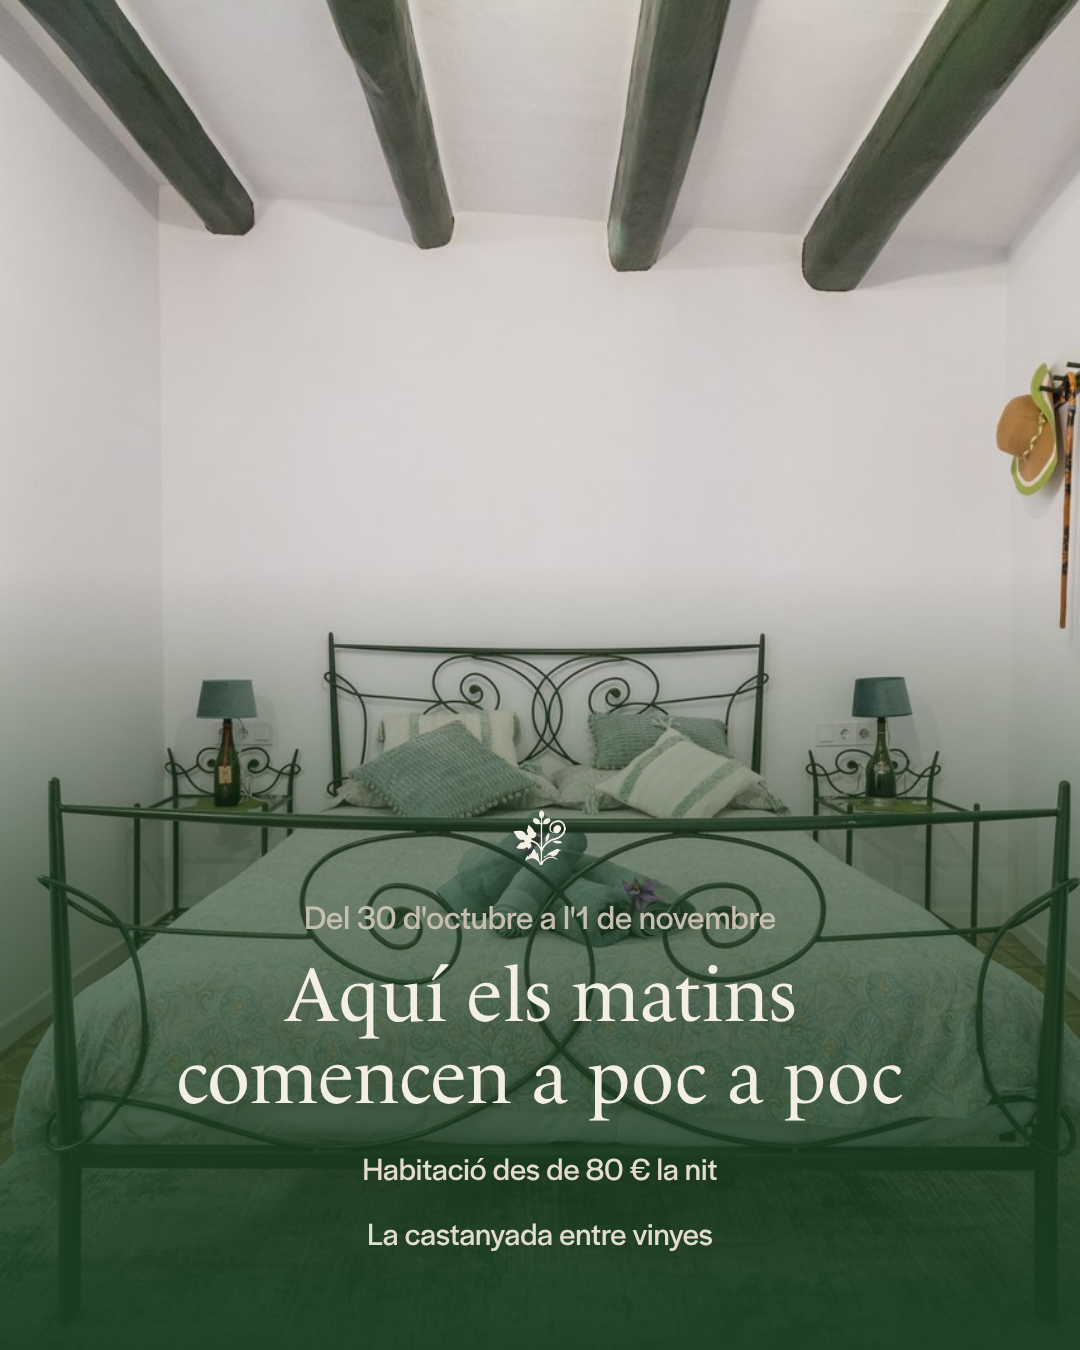
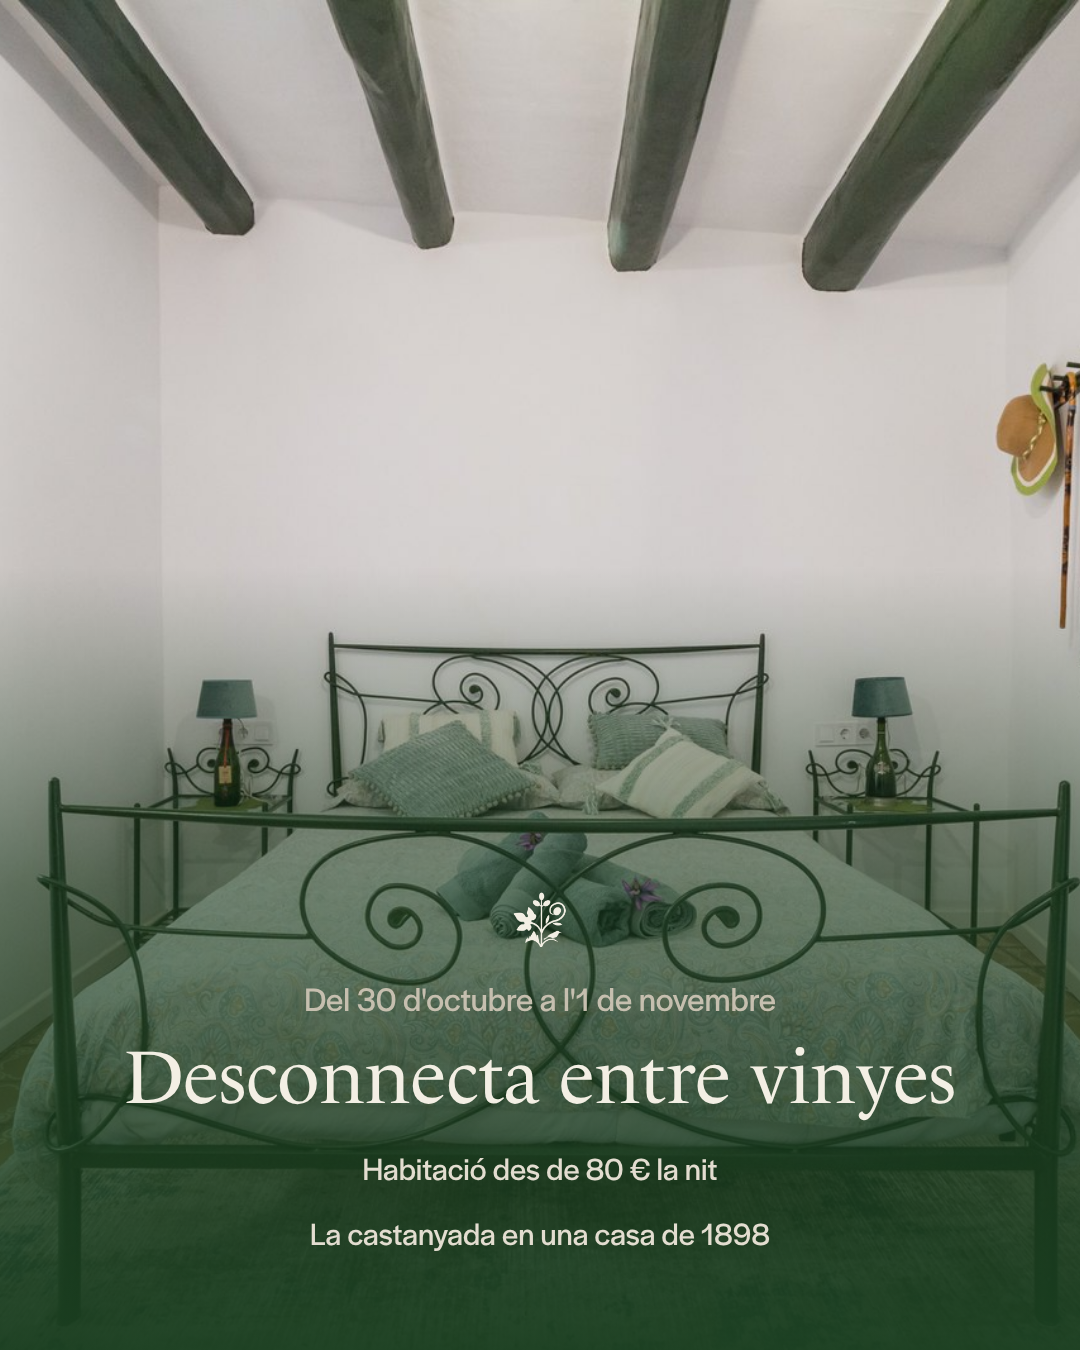
Ads: castanyada room image headline «Desconecta entre viñedos»
Claude-Session: https://claude.ai/code/session_01Lmu1CZcVCAKZt8uGzZEBGx

Changed region(s): [[0.1222, 0.5911, 0.8861, 0.84], [0.275, 0.9022, 0.7333, 0.9333]]

diff --git a/ads/src/html/castanyada-habitacion-story-es.html b/ads/src/html/castanyada-habitacion-story-es.html
@@ -11,4 +11,4 @@ body { background: #1a3f20; }
 <img src="file:///home/user/casavella/img/logo-light.png" alt="La Casa Vella" style="position:absolute;top:262px;left:50%;width:170px;margin-left:-85px">
 <img class="photo" src="file:///home/user/casavella/img/hab-llit.jpg" style="top:540px;height:680px;object-position:50% center">
 <div style="position:absolute;left:0;right:0;top:540px;height:680px;background:linear-gradient(180deg,rgba(26,63,32,1) 0%,rgba(26,63,32,0) 22%,rgba(26,63,32,0) 55%,rgba(26,63,32,1) 100%)"></div>
-<div style="position:absolute;left:88px;right:88px;top:1270px;display:flex;flex-direction:column;align-items:center;gap:14px;text-align:center"><p class="line" style="font-size: 34px; color: #c6bfaf;">Del 30 de octubre al 1 de noviembre</p><p class="title" style="font-size: 62px;">Aquí las mañanas empiezan despacio</p><p class="line" style="font-size: 32px;">Habitación desde 80 € la noche</p><p class="line" style="font-size: 32px;">La castanyada entre viñedos</p></div></div>
+<div style="position:absolute;left:88px;right:88px;top:1270px;display:flex;flex-direction:column;align-items:center;gap:14px;text-align:center"><p class="line" style="font-size: 34px; color: #c6bfaf;">Del 30 de octubre al 1 de noviembre</p><p class="title" style="font-size: 62px;">Desconecta entre viñedos</p><p class="line" style="font-size: 32px;">Habitación desde 80 € la noche</p><p class="line" style="font-size: 32px;">La castanyada en una casa de 1898</p></div></div>

diff --git a/ads/src/html/castanyada-habitacion-story-ca.html b/ads/src/html/castanyada-habitacion-story-ca.html
@@ -11,4 +11,4 @@ body { background: #1a3f20; }
 <img src="file:///home/user/casavella/img/logo-light.png" alt="La Casa Vella" style="position:absolute;top:262px;left:50%;width:170px;margin-left:-85px">
 <img class="photo" src="file:///home/user/casavella/img/hab-llit.jpg" style="top:540px;height:680px;object-position:50% center">
 <div style="position:absolute;left:0;right:0;top:540px;height:680px;background:linear-gradient(180deg,rgba(26,63,32,1) 0%,rgba(26,63,32,0) 22%,rgba(26,63,32,0) 55%,rgba(26,63,32,1) 100%)"></div>
-<div style="position:absolute;left:88px;right:88px;top:1270px;display:flex;flex-direction:column;align-items:center;gap:14px;text-align:center"><p class="line" style="font-size: 34px; color: #c6bfaf;">Del 30 d'octubre a l'1 de novembre</p><p class="title" style="font-size: 62px;">Aquí els matins comencen a poc a poc</p><p class="line" style="font-size: 32px;">Habitació des de 80 € la nit</p><p class="line" style="font-size: 32px;">La castanyada entre vinyes</p></div></div>
+<div style="position:absolute;left:88px;right:88px;top:1270px;display:flex;flex-direction:column;align-items:center;gap:14px;text-align:center"><p class="line" style="font-size: 34px; color: #c6bfaf;">Del 30 d'octubre a l'1 de novembre</p><p class="title" style="font-size: 62px;">Desconnecta entre vinyes</p><p class="line" style="font-size: 32px;">Habitació des de 80 € la nit</p><p class="line" style="font-size: 32px;">La castanyada en una casa de 1898</p></div></div>

diff --git a/ads/src/html/castanyada-habitacion-feed-es.html b/ads/src/html/castanyada-habitacion-feed-es.html
@@ -11,4 +11,4 @@ body { background: #1a3f20; }
 <img class="photo" src="file:///home/user/casavella/img/hab-llit.jpg" style="inset:0;height:100%;object-position:50% center">
 <div style="position:absolute;inset:0;background:linear-gradient(0deg,rgba(26,63,32,.96) 0%,rgba(26,63,32,.55) 34%,rgba(26,63,32,0) 58%)"></div>
 <div style="position:absolute;left:88px;right:88px;bottom:96px;display:flex;flex-direction:column;align-items:center;gap:22px;text-align:center">
-<img src="file:///home/user/casavella/img/iso-light.png" alt="" style="width:56px;margin-bottom:6px"><p class="line" style="font-size: 34px; color: #c6bfaf;">Del 30 de octubre al 1 de noviembre</p><p class="title" style="font-size: 76px;">Aquí las mañanas empiezan despacio</p><p class="line" style="font-size: 32px;">Habitación desde 80 € la noche</p><p class="line" style="font-size: 32px;">La castanyada entre viñedos</p></div></div>
+<img src="file:///home/user/casavella/img/iso-light.png" alt="" style="width:56px;margin-bottom:6px"><p class="line" style="font-size: 34px; color: #c6bfaf;">Del 30 de octubre al 1 de noviembre</p><p class="title" style="font-size: 76px;">Desconecta entre viñedos</p><p class="line" style="font-size: 32px;">Habitación desde 80 € la noche</p><p class="line" style="font-size: 32px;">La castanyada en una casa de 1898</p></div></div>

diff --git a/ads/src/html/castanyada-habitacion-feed-ca.html b/ads/src/html/castanyada-habitacion-feed-ca.html
@@ -11,4 +11,4 @@ body { background: #1a3f20; }
 <img class="photo" src="file:///home/user/casavella/img/hab-llit.jpg" style="inset:0;height:100%;object-position:50% center">
 <div style="position:absolute;inset:0;background:linear-gradient(0deg,rgba(26,63,32,.96) 0%,rgba(26,63,32,.55) 34%,rgba(26,63,32,0) 58%)"></div>
 <div style="position:absolute;left:88px;right:88px;bottom:96px;display:flex;flex-direction:column;align-items:center;gap:22px;text-align:center">
-<img src="file:///home/user/casavella/img/iso-light.png" alt="" style="width:56px;margin-bottom:6px"><p class="line" style="font-size: 34px; color: #c6bfaf;">Del 30 d'octubre a l'1 de novembre</p><p class="title" style="font-size: 76px;">Aquí els matins comencen a poc a poc</p><p class="line" style="font-size: 32px;">Habitació des de 80 € la nit</p><p class="line" style="font-size: 32px;">La castanyada entre vinyes</p></div></div>
+<img src="file:///home/user/casavella/img/iso-light.png" alt="" style="width:56px;margin-bottom:6px"><p class="line" style="font-size: 34px; color: #c6bfaf;">Del 30 d'octubre a l'1 de novembre</p><p class="title" style="font-size: 76px;">Desconnecta entre vinyes</p><p class="line" style="font-size: 32px;">Habitació des de 80 € la nit</p><p class="line" style="font-size: 32px;">La castanyada en una casa de 1898</p></div></div>

diff --git a/ads/src/make.py b/ads/src/make.py
@@ -38,8 +38,8 @@ CONCEPTS = {
     'es': ['Del 30 de octubre al 1 de noviembre', 'La castanyada entre viñedos', 'Desde 80 € la noche', 'Con Montserrat en el horizonte'],
     'ca': ["Del 30 d'octubre a l'1 de novembre", 'La castanyada entre vinyes', 'Des de 80 € la nit', "Amb Montserrat a l'horitzó"]},
   'castanyada-habitacion': {'photo': 'hab-llit', 'pos': '50% center', 'date': True,
-    'es': ['Del 30 de octubre al 1 de noviembre', 'Aquí las mañanas empiezan despacio', 'Habitación desde 80 € la noche', 'La castanyada entre viñedos'],
-    'ca': ["Del 30 d'octubre a l'1 de novembre", 'Aquí els matins comencen a poc a poc', 'Habitació des de 80 € la nit', 'La castanyada entre vinyes']},
+    'es': ['Del 30 de octubre al 1 de noviembre', 'Desconecta entre viñedos', 'Habitación desde 80 € la noche', 'La castanyada en una casa de 1898'],
+    'ca': ["Del 30 d'octubre a l'1 de novembre", 'Desconnecta entre vinyes', 'Habitació des de 80 € la nit', 'La castanyada en una casa de 1898']},
   'castanyada-cava': {'photo': 'apt-cuina-detall', 'pos': '62% center', 'date': True,
     'es': ['Del 30 de octubre al 1 de noviembre', 'La castanyada entre viñedos', 'Desde 80 € la noche', 'Con Montserrat en el horizonte'],
     'ca': ["Del 30 d'octubre a l'1 de novembre", 'La castanyada entre vinyes', 'Des de 80 € la nit', "Amb Montserrat a l'horitzó"]},
